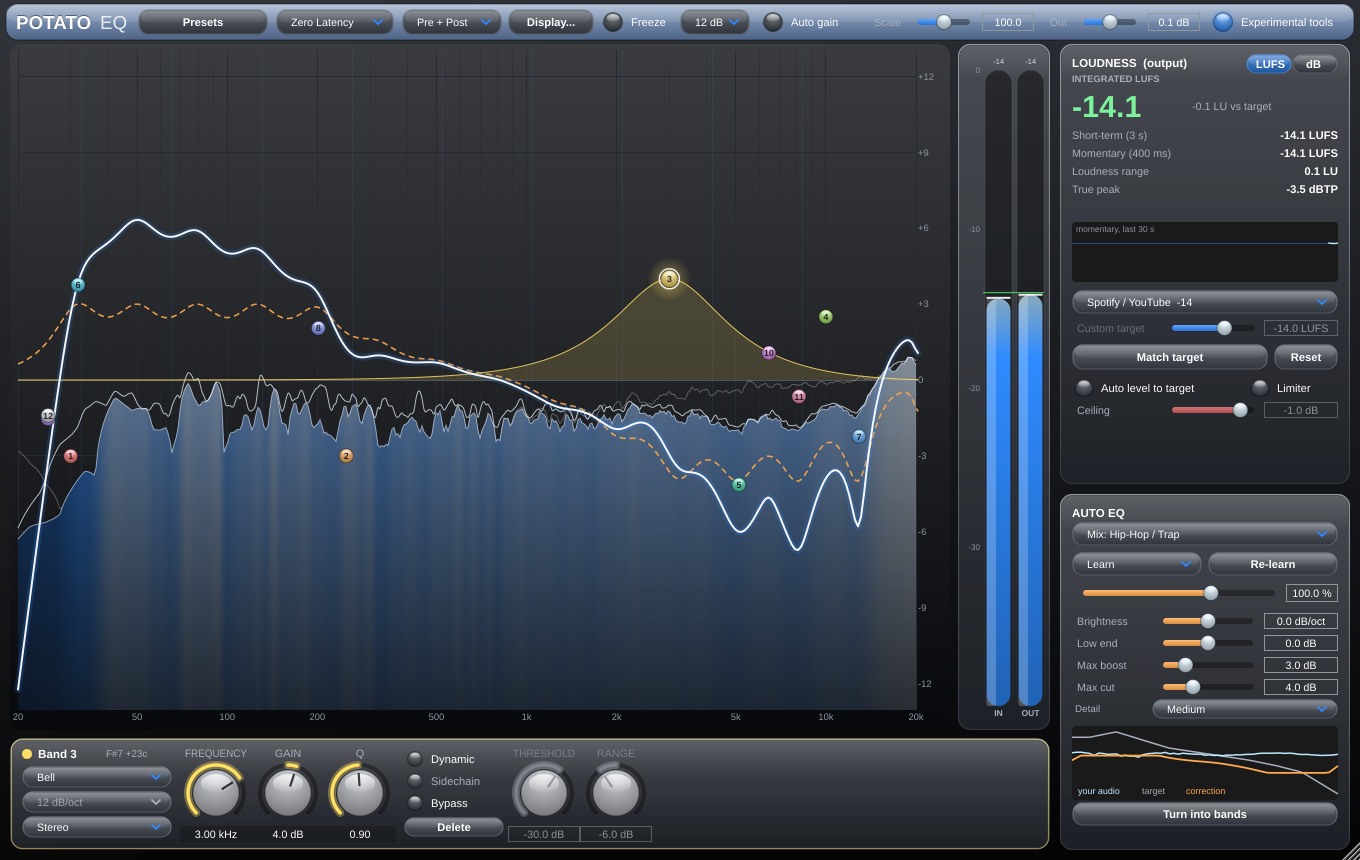
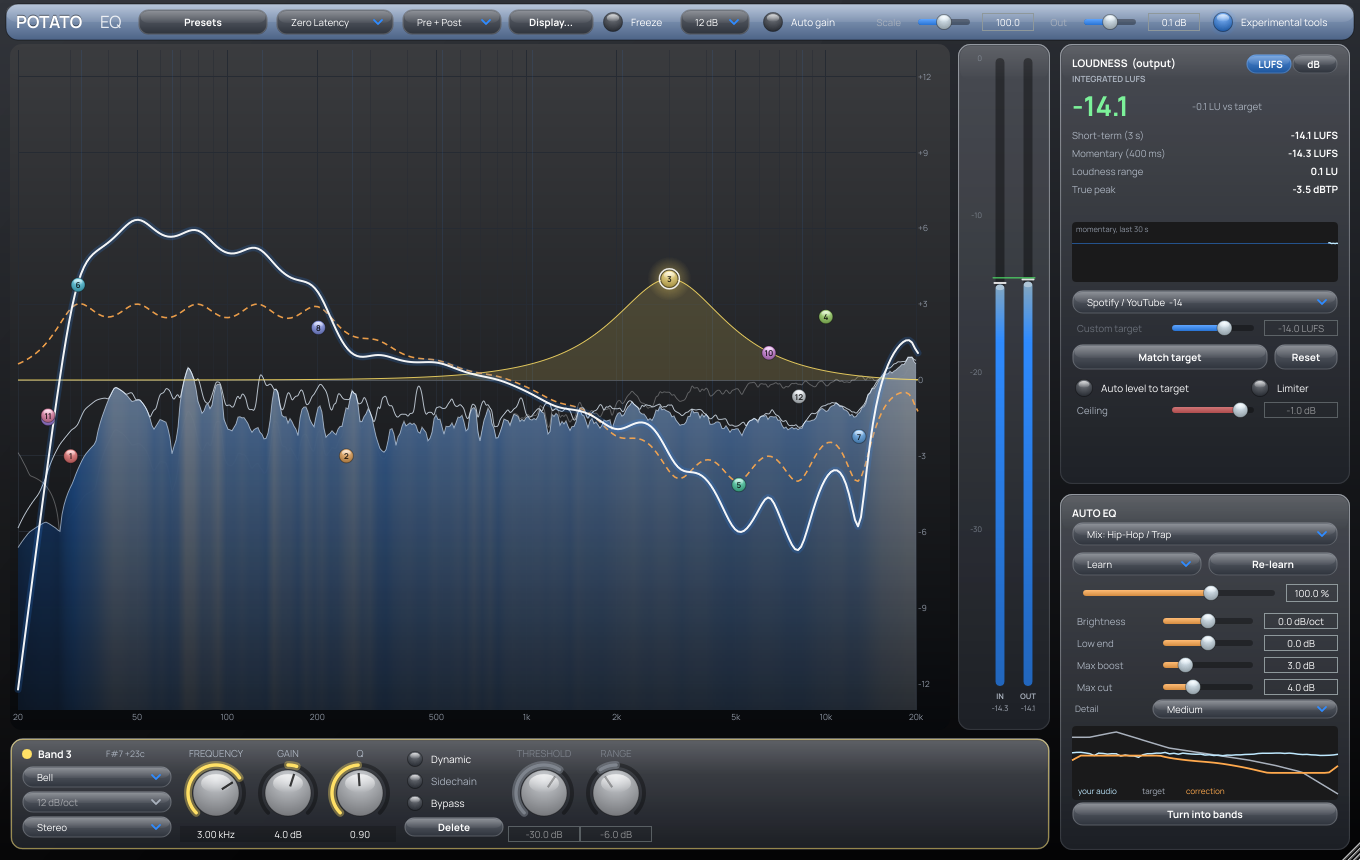
Default font Manrope; release embedded fonts with the last editor
Holding the typefaces in static storage past the last editor crashed at process exit
(JUCE's typeface cache is destroyed first), which a DAW could hit on unload.

Claude-Session: https://claude.ai/code/session_01Dmvx52fqWvJanhTStoGKcv

diff --git a/Source/PluginEditor.cpp b/Source/PluginEditor.cpp
@@ -8,7 +8,8 @@ PotatoEQEditor::PotatoEQEditor (PotatoEQProcessor& p)
     : AudioProcessorEditor (&p), proc (p), display (p), bandPanel (p), loudness (p), autoPanel (p)
 {
     theme::applySchemeFromState (proc.apvts.state);
-    theme::setUiFont (ana::get (proc.apvts.state, ana::uiFont, 0));
+    ++theme::openEditors();
+    theme::setUiFont (ana::get (proc.apvts.state, ana::uiFont, 4));
     lnf.refreshColours();
     setLookAndFeel (&lnf);
     auto& s = proc.apvts;
@@ -76,7 +77,12 @@ void PotatoEQEditor::updateExperimental()
     if (autoPanel.isVisible() != on) { autoPanel.setVisible (on); resized(); }
 }
 
-PotatoEQEditor::~PotatoEQEditor() { setLookAndFeel (nullptr); }
+PotatoEQEditor::~PotatoEQEditor()
+{
+    setLookAndFeel (nullptr);
+    // release the embedded fonts with the last window, before JUCE's own font cache goes away at unload
+    if (--theme::openEditors() == 0) { theme::uiRegular() = nullptr; theme::uiBold() = nullptr; }
+}
 
 
 void PotatoEQEditor::showAnalyzerMenu()
@@ -111,7 +117,7 @@ void PotatoEQEditor::showAnalyzerMenu()
     m.addSubMenu ("Colour scheme", sch);
     {
         PopupMenu fm;
-        const int cur = ana::get (st, ana::uiFont, 0);
+        const int cur = ana::get (st, ana::uiFont, 4);
         for (int i = 0; i < theme::fontNames.size(); ++i) fm.addItem (1100 + i, theme::fontNames[i], true, cur == i);
         m.addSubMenu ("Font", fm);
     }

diff --git a/Source/ui/Theme.h b/Source/ui/Theme.h
@@ -42,6 +42,7 @@ inline Colour bandColour (int band)
 // ---- interface font (embedded open-licence fonts, chosen in Display > Font)
 inline juce::Typeface::Ptr& uiRegular() { static juce::Typeface::Ptr p; return p; }
 inline juce::Typeface::Ptr& uiBold()    { static juce::Typeface::Ptr p; return p; }
+inline int& openEditors()               { static int n = 0; return n; }
 inline float& uiFontScale()             { static float k = 1.0f; return k; }   // evens out each font's built-in spacing
 inline const juce::StringArray fontNames { "Classic (system)", "Nunito (soft, rounded)", "Inter (clean, very readable)",
                                            "DM Sans (soft geometric)", "Manrope (modern)", "Quicksand (softest)" };

diff --git a/tests/PluginHarness.cpp b/tests/PluginHarness.cpp
@@ -433,7 +433,7 @@ int main (int argc, char** argv)
                 File sf = f.getSiblingFile (f.getFileNameWithoutExtension() + "-font" + String (fi) + ".png");
                 sf.deleteFile(); FileOutputStream so (sf); PNGImageFormat().writeImageToStream (im, so);
             }
-            pe->setUiFont (0);
+            pe->setUiFont (4);
             // a custom colour scheme
             auto& st = p->apvts.state;
             const uint32 custom[] = { 0xff2b2140, 0xff3a2f57, 0xff140f22, 0xffff8fb1, 0xff8fe3ff, 0xffb69cff, 0xfffff4fa, 0xff1b1030, 0xfff3e6ff };
